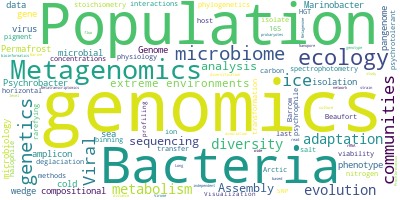
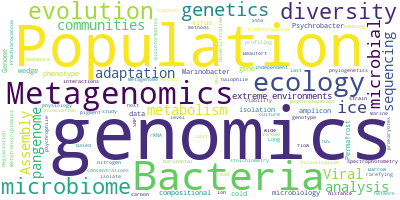
McInerneyetal2017

diff --git a/README.md b/README.md
@@ -79,6 +79,8 @@ Notes (author, year, journal in file header) on readings.  Top of each note docu
 
 ### Population_genetics 
  
+* [McInerneyetal2017 - Why prokaryotes have pangenomes](https://github.com/zscooper/ReadingList/tree/master/papers/Metagenomics/Population_genetics/McInerneyetal2017.md) 
+     * This paper discusses and reviews the evolutionary and ecological reasons for pangenomes in prokaryotes. 
 * [DeLong2002 - Microbial population genomics and ecology](https://github.com/zscooper/ReadingList/tree/master/papers/Metagenomics/Population_genetics/DeLong2002.md) 
      * This is an early review of culture-independent studies of bacterial diversity/populations in the environment. 
 * [Greenbaumetal2016 - Inference and Analysis of Population Structure Using Genetic Data and Network Theory](https://github.com/zscooper/ReadingList/tree/master/papers/Metagenomics/Population_genetics/Greenbaumetal2016.md) 

diff --git a/papers/Metagenomics/Population_genetics/McInerneyetal2017.md b/papers/Metagenomics/Population_genetics/McInerneyetal2017.md
@@ -1,0 +1,24 @@
+02/24/20
+## Authors:
+McInerney, JO; McNally, A; O'Connell, MJ
+## Title:
+Why prokaryotes have pangenomes
+## Keywords:
+pangenomes, diversity, evolution, ecology, microbial
+## Geographic Coverage
+N/A
+## Field Dates:
+N/A
+## Significance:
+This paper discusses and reviews the evolutionary and ecological reasons for pangenomes in prokaryotes.
+
+## Notes:
+HGT is common and usually implicated in opening pangenomes (expanding the accessory genome).
+
+HGT tends to be adaptive, not just neutral or deleterious.
+
+The entire bacterial pangenome is theoretically infinite.
+
+Gene loss can be adaptive as well as gene gain.
+
+Effective population size and the ability to migrate are the most important factors in structuring pangenomes.
